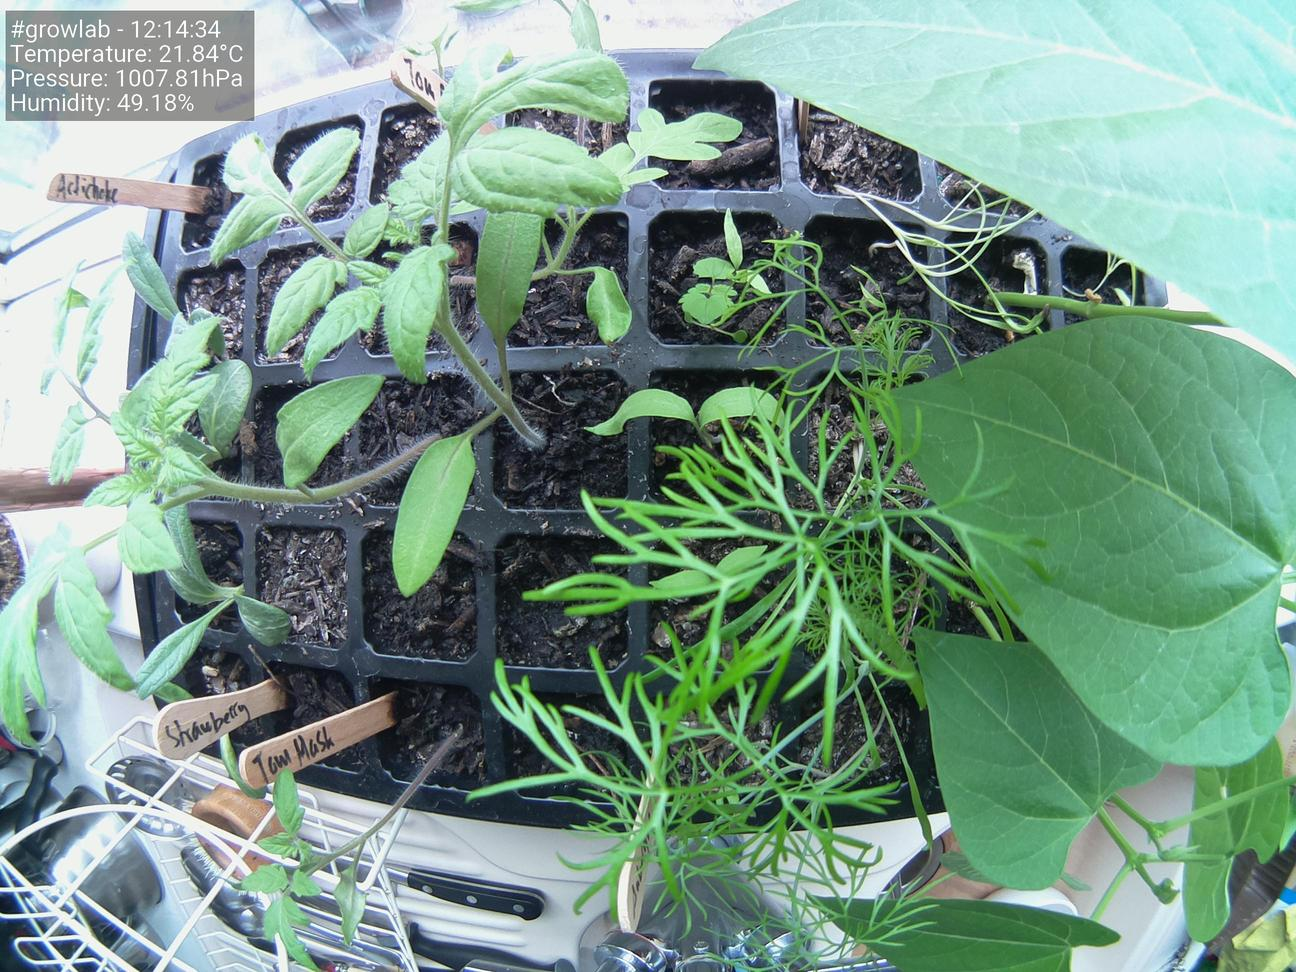
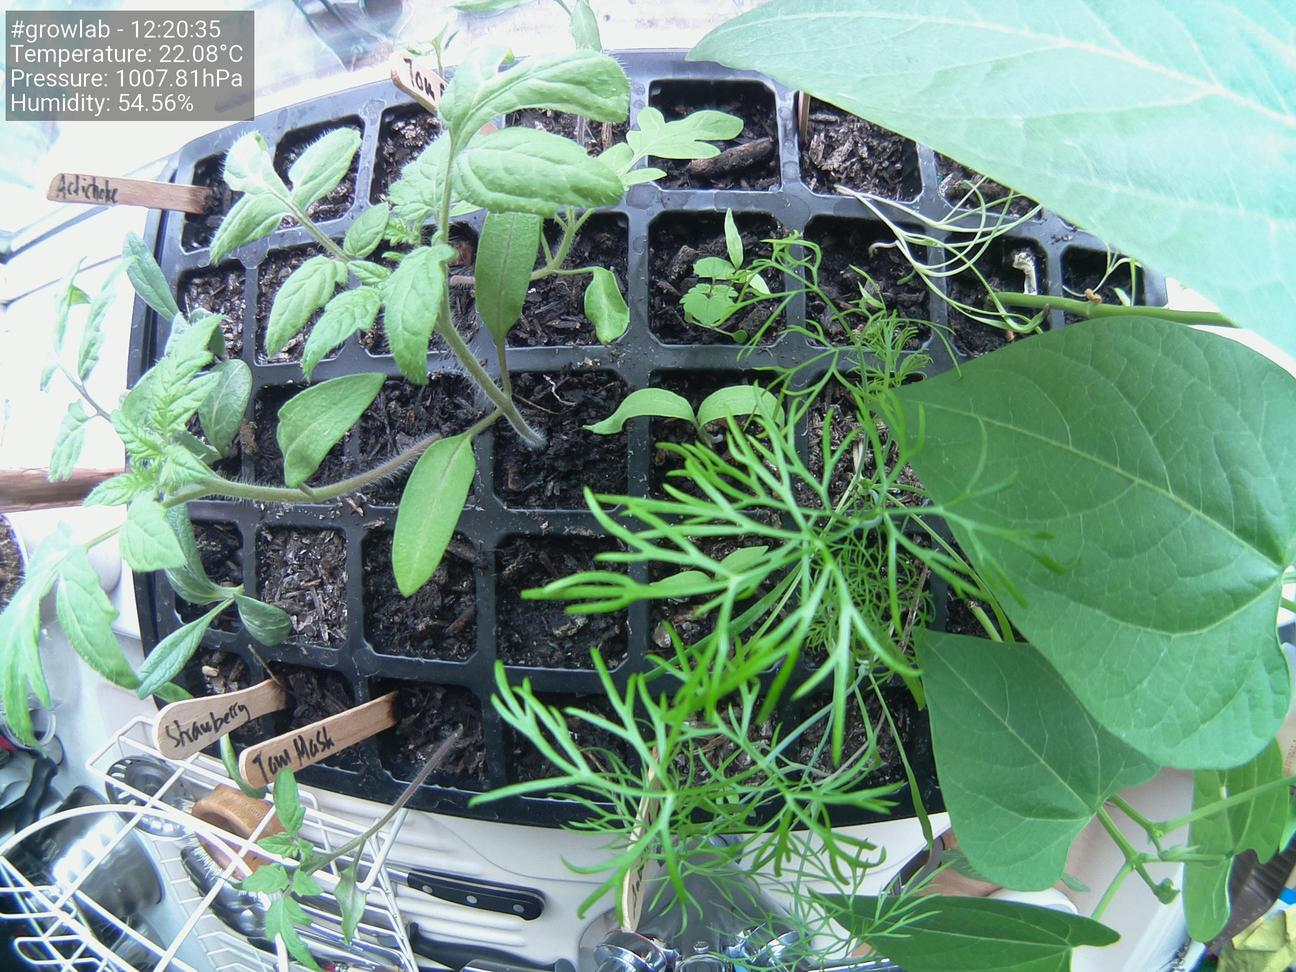
Update images at Wed 28 Apr 12:20:46 BST 2021

diff --git a/docs/index.html b/docs/index.html
@@ -38,15 +38,15 @@
                     <tbody>
                         <tr>
                             <td>Time</td>
-                            <td>12:14:34</td>
+                            <td>12:20:35</td>
                         </tr>
                         <tr>
                             <td>Temperature</td>
-                            <td>21.84°C</td>
+                            <td>22.08°C</td>
                         </tr>
                         <tr>
                             <td>Humidity</td>
-                            <td>49.18%</td>
+                            <td>54.56%</td>
                         </tr>
                         <tr>
                             <td>Pressure</td>
